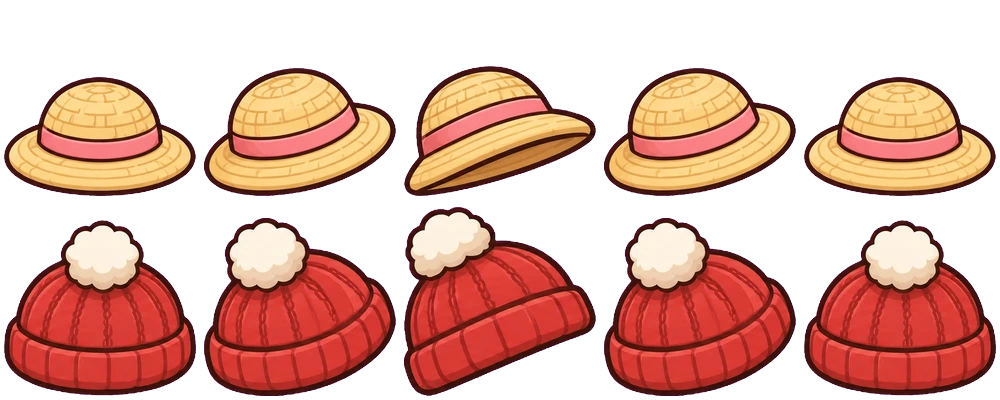
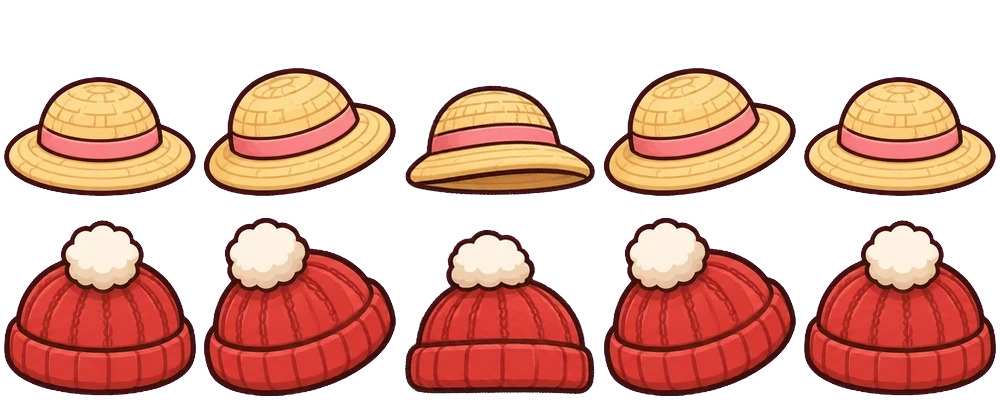
Dress-up: toggle button, item-only pictures, shoe recolour only on the shoe, level side hat
Claude-Session: https://claude.ai/code/session_01WYXHXwKxHQowMAYmWZLpUL

Changed region(s): [[0.403, 0.15, 0.62, 0.99]]

diff --git a/index.html b/index.html
@@ -366,7 +366,7 @@ document.addEventListener('visibilitychange',()=>{if(document.hidden)window.__hi
 <script>
 // ---- UI icon set (ui_icons.webp, 18 cells in one row) — emoji are shown until it loads ----
 // bump ASSET_V whenever an icon/emote picture changes, so phones download the new one instead of a cached copy
-var ASSET_V='20261121k';
+var ASSET_V='20261121l';
 const IC_N=['logo','pad','freeze','hide','zombie','fire','flash','run','shirt','gear','globe','trophy','girl','boy','jump','tag','logout','hello'];
 const IC={},IC_C={};
 function icFrom(img,i,name){const n=img.height,c=document.createElement('canvas');c.width=c.height=n;c.getContext('2d').drawImage(img,i*n,0,n,n,0,0,n,n);IC_C[name]=c;IC[name]=c.toDataURL();}
@@ -628,13 +628,27 @@ function drawSpecs(g,ox,eyes,view){g.save();g.lineWidth=2.6;g.strokeStyle='#2a2a
   else{const [a]=eyes;g.beginPath();g.moveTo(ox+a[0]-a[2]*1.5,a[1]-a[2]*.2);g.lineTo(ox+a[0]-a[2]*4.2,a[1]-a[2]*.6);g.stroke();}
   g.restore();}
 // shoes: the dark pixels at the very bottom of each leg -> pink or white sneakers
+function shoeMask(p,W,H,f,tol=28){const m=new Uint8Array(W*H),x0=f*FRAME_W,x1=Math.min(W,x0+FRAME_W);let low=0;
+  for(let x=x0;x<x1;x++){let y=H-1;while(y>0&&p[(y*W+x)*4+3]<100)y--;low=Math.max(low,y);}
+  for(let x=x0;x<x1;x++){let y=H-1;while(y>0&&p[(y*W+x)*4+3]<100)y--;if(y<low-tol)continue;   // only feet near the ground (a lifted foot is a little higher), never the hands
+    for(let k=0;k<17&&y-k>0;k++){const i=((y-k)*W+x)*4;if(p[i+3]<60)break;const v=Math.max(p[i],p[i+1],p[i+2]);
+      if(v>105||p[i+2]-p[i]>28||p[i]-p[i+2]>30)break;m[(y-k)*W+x]=1;}}   // stop at socks, skin, navy trousers or a red skirt
+  return m;}
 function shoeColor(cv,col){const g=cv.getContext('2d'),W=cv.width,H=cv.height,d=g.getImageData(0,0,W,H),p=d.data;
   const tint=col==='pink'?[255,120,170]:[245,245,245],line=col==='pink'?[150,40,80]:[90,90,100];
-  for(let f=0;f*FRAME_W<W;f++){let bot=0;for(let y=H-1;y>0&&!bot;y--)for(let x=f*FRAME_W;x<(f+1)*FRAME_W;x++)if(p[(y*W+x)*4+3]>100){bot=y;break;}
-    for(let y=Math.max(0,bot-30);y<=bot;y++)for(let x=f*FRAME_W;x<(f+1)*FRAME_W;x++){const i=(y*W+x)*4;if(p[i+3]<60)continue;const v=Math.max(p[i],p[i+1],p[i+2]);
-      if(v>95||p[i]-p[i+2]>30)continue;            // only the dark shoe (not skin, socks or a red skirt)
-      const k=v/95;const edge=v<38;const c=edge?line:tint;p[i]=c[0]*(edge?1:.78+.22*k);p[i+1]=c[1]*(edge?1:.78+.22*k);p[i+2]=c[2]*(edge?1:.78+.22*k);}}
+  for(let f=0;f*FRAME_W<W;f++){const m=shoeMask(p,W,H,f);for(let k=0;k<W*H;k++){if(!m[k])continue;const i=k*4,v=Math.max(p[i],p[i+1],p[i+2]),edge=v<38,c=edge?line:tint,q=edge?1:.78+.22*v/105;
+      p[i]=c[0]*q;p[i+1]=c[1]*q;p[i+2]=c[2]*q;}}
   g.putImageData(d,0,0);}
+// item-only pictures for the dress-up panel
+function itemPic(slot,id,look){const c=document.createElement('canvas');c.width=c.height=120;const g=c.getContext('2d');
+  const none=()=>{g.strokeStyle='#c9b79a';g.lineWidth=7;g.beginPath();g.arc(60,60,34,0,7);g.moveTo(36,84);g.lineTo(84,36);g.stroke();};
+  if(slot==='hat'){if(id==='none')none();else if(HAT_IMG.complete&&HAT_IMG.naturalWidth){const cs=HAT_IMG.height/2;g.drawImage(HAT_IMG,0,HAT_FIT[id].row*cs,cs,cs,6,6,108,108);}}
+  else if(slot==='glasses'){if(id==='none')none();else drawSpecs(g,0,[[38,62,8],[82,62,8]],'down');}
+  else if(slot==='shoes'){const base=BASE[look];if(base){const src=toCanvas(base.idle);const sg=src.getContext('2d'),W=src.width,H=src.height,m=shoeMask(sg.getImageData(0,0,W,H).data,W,H,1,6);if(id!=='black')shoeColor(src,id);const d=sg.getImageData(0,0,W,H),p=d.data;
+      for(let k=0;k<W*H;k++)if(!m[k])p[k*4+3]=0;sg.putImageData(d,0,0);let x0=W,y0=H,x1=0,y1=0;for(let k=0;k<W*H;k++)if(m[k]){const x=k%W,y=(k/W)|0;x0=Math.min(x0,x);x1=Math.max(x1,x);y0=Math.min(y0,y);y1=Math.max(y1,y);}
+      if(x1>x0){const w=x1-x0+1,h=y1-y0+1,k2=Math.min(100/w,70/h);g.drawImage(src,x0,y0,w,h,60-w*k2/2,64-h*k2/2,w*k2,h*k2);}}}
+  else if(slot==='outfit'){const v=variant(id);if(v){c.height=120;g.drawImage(v.idle,FRAME_W+18,160,FRAME_W-36,72,4,8,112,104);}}
+  return c;}
 function variant(key){ // key = "g_o_h:color" or "g_o_h:color|hat,shoes,glasses"
   if(BANK[key])return BANK[key];
   const base0=key.split('|')[0],w=key.includes('|')?wearOf(key):null;
@@ -753,7 +767,7 @@ spd.oninput=()=>{S.speed=+spd.value;$('spdv').textContent=S.speed};
 scl.oninput=()=>{S.scale=scl.value/10;$('sclv').textContent=S.scale.toFixed(1)+'×'};
 $('hideBtn').onclick=()=>{hud.style.display='none';showBtn.style.display='block';app.classList.remove('hudOpen')};
 const openHud=tab=>{hud.style.display='block';app.classList.add('hudOpen');document.querySelector(`.tab[data-tab=${tab}]`).click();document.querySelector('.tab[data-tab=dress]').style.display=tab==='set'&&!app.classList.contains('inHouse')?'none':'';};
-showBtn.onclick=()=>openHud('dress');$('gearBtn').onclick=()=>openHud('set');
+showBtn.onclick=()=>{if(app.classList.contains('hudOpen'))$('hideBtn').onclick();else openHud('dress');};$('gearBtn').onclick=()=>openHud('set');
 $('npcToggle').onchange=e=>{S.npcs=e.target.checked};
 setTimeout(()=>{const fsOk=!!document.documentElement.requestFullscreen;$('fsRow').style.display=fsOk?'':'none';
   $('fsToggle').onchange=e=>{if(e.target.checked)tryLandscape();else if(document.fullscreenElement)document.exitFullscreen().catch(()=>{});};
@@ -769,7 +783,7 @@ function buildPicker(){
   const box=$('charPick');box.innerHTML='';
   for(const g of Object.keys(GENDERS))for(const o of Object.keys(OUTFITS)){
     if(OUTFITS[o].only&&OUTFITS[o].only!==g)continue;const key=lookKey(g,o,pick.h[g],pick.c);if(!BASE[key.split(':')[0]])continue;
-    box.appendChild(chip(thumb(key),OUTFITS[o].dress?OUTFITS[o].name:`${OUTFITS[o].name} ${GENDERS[g].name}`,pick.g===g&&pick.o===o,()=>{pick.g=g;pick.o=o;saveWear();applyPick();}));}
+    box.appendChild(chip(pick.g==='girl'?itemPic('outfit',key):thumb(key),OUTFITS[o].dress?OUTFITS[o].name:`${OUTFITS[o].name} ${GENDERS[g].name}`,pick.g===g&&pick.o===o,()=>{pick.g=g;pick.o=o;saveWear();applyPick();}));}
   const hb=$('hairPick');hb.innerHTML='';
   for(const [h,name] of GENDERS[pick.g].hairs){const key=lookKey(pick.g,pick.o,h,pick.c);if(!BASE[key.split(':')[0]])continue;
     const c=document.createElement('canvas');c.width=FRAME_W;c.height=128;const v=variant(key);c.getContext('2d').drawImage(v.idle,FRAME_W,44,FRAME_W,128,0,0,FRAME_W,128);
@@ -779,8 +793,7 @@ function buildPicker(){
   const wr=$('wearPick');wr.innerHTML='';wr.style.display=pick.g==='girl'?'':'none';
   if(pick.g==='girl')for(const [slot,label] of [['hat','Hat'],['shoes','Shoes'],['glasses','Glasses']]){const row=document.createElement('div');row.className='row';row.innerHTML=`<label>${label}</label>`;
     const ch=document.createElement('div');ch.className='chips wear';row.appendChild(ch);
-    for(const [id,name] of WEAR[slot]){const w={...pick.w,[slot]:id},key=lookKey(pick.g,pick.o,pick.h[pick.g],pick.c,w),c=document.createElement('canvas');c.width=FRAME_W;
-      const v=variant(key);if(slot==='shoes'){c.width=110;c.height=60;if(v)c.getContext('2d').drawImage(v.idle,FRAME_W+30,FRAME_H-62,110,60,0,0,110,60);}else{c.height=150;if(v)c.getContext('2d').drawImage(v.idle,FRAME_W,0,FRAME_W,150,0,0,FRAME_W,150);}
+    for(const [id,name] of WEAR[slot]){const c=itemPic(slot,id,lookKey(pick.g,pick.o,pick.h[pick.g],pick.c).split(':')[0]);
       ch.appendChild(chip(c,name,pick.w[slot]===id,()=>{pick.w[slot]=id;saveWear();applyPick();}));}
     wr.appendChild(row);}
   const sw=$('colorPick');sw.innerHTML='';sw.style.display=OUTFITS[pick.o].sport?'flex':'none';
